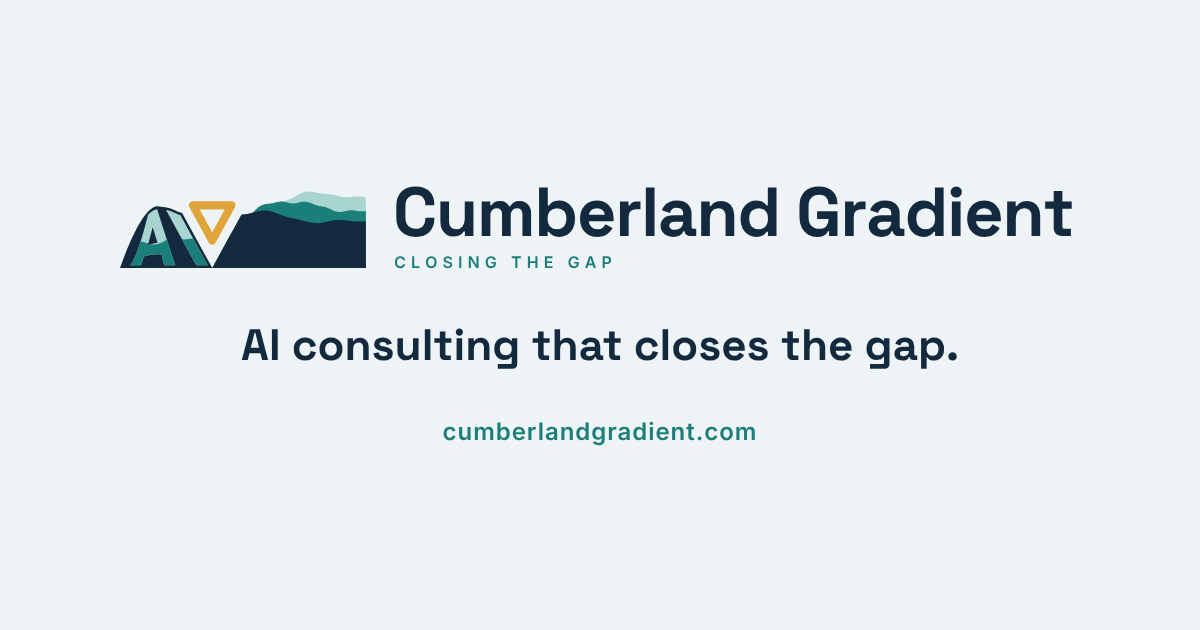
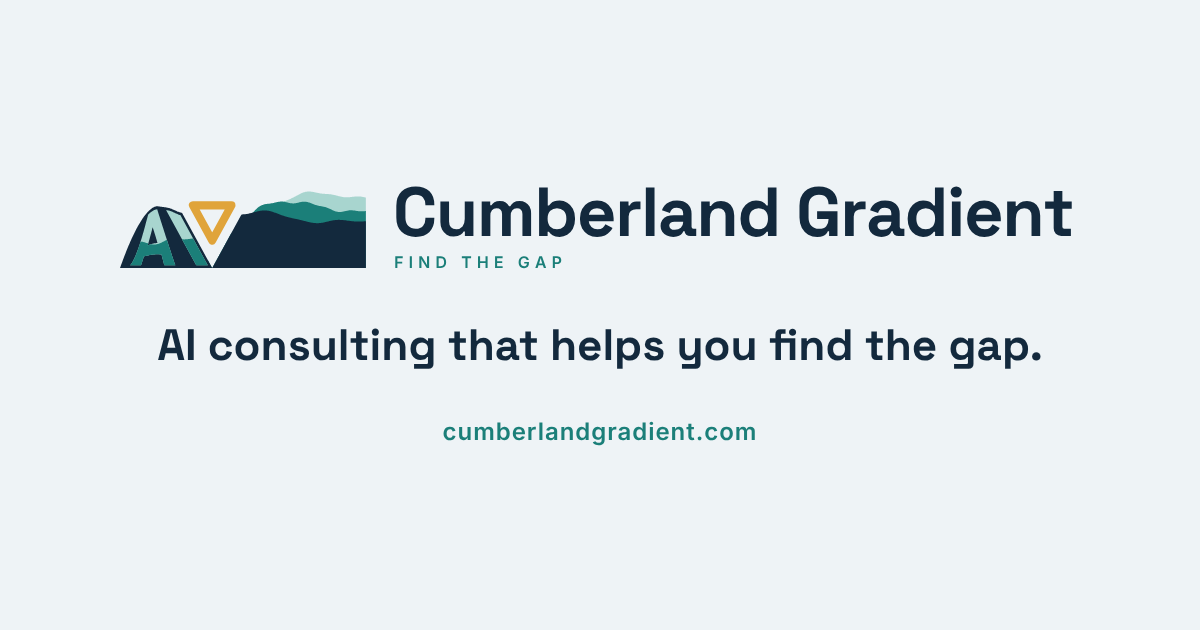
Promote New-site-test 3b5e434
https://github.com/JesseTNRoberts/New-site-test/commit/3b5e434dded33e165b801cd0f31a2d09c2d348b1

Changed region(s): [[0.1233, 0.5127, 0.8633, 0.6032], [0.3392, 0.3921, 0.5242, 0.4222]]

diff --git a/_pages/services.html b/_pages/services.html
@@ -13,7 +13,7 @@ author_profile: false
 seo_title: "Cumberland Gradient | AI Consulting, Workshops and Talks in Tennessee"
 description: "Cumberland Gradient is Jesse Roberts's AI consulting practice. AI audits, workshops and talks for Tennessee companies, and a free first consultation."
 og_image: /assets/cumberland-gradient/share.png
-og_image_alt: "Cumberland Gradient logo. AI consulting that closes the gap."
+og_image_alt: "Cumberland Gradient logo. AI consulting that helps you find the gap."
 # No photos for now (2026-11-08). Jesse found the AAAI photo unhelpful, tight or wide. For a
 # headshot later, set photo, photo_alt and (optional) photo_caption here. A wide image can go in
 # wide_photo in _data/services.yml.
